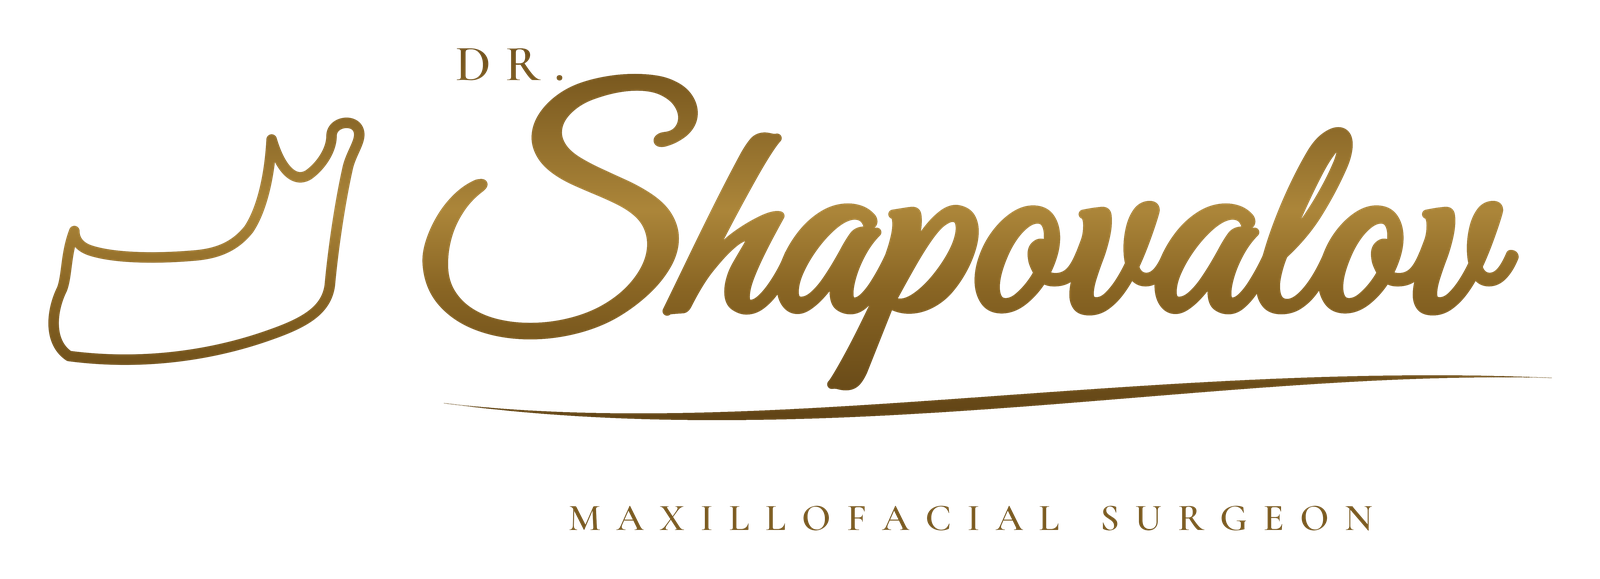
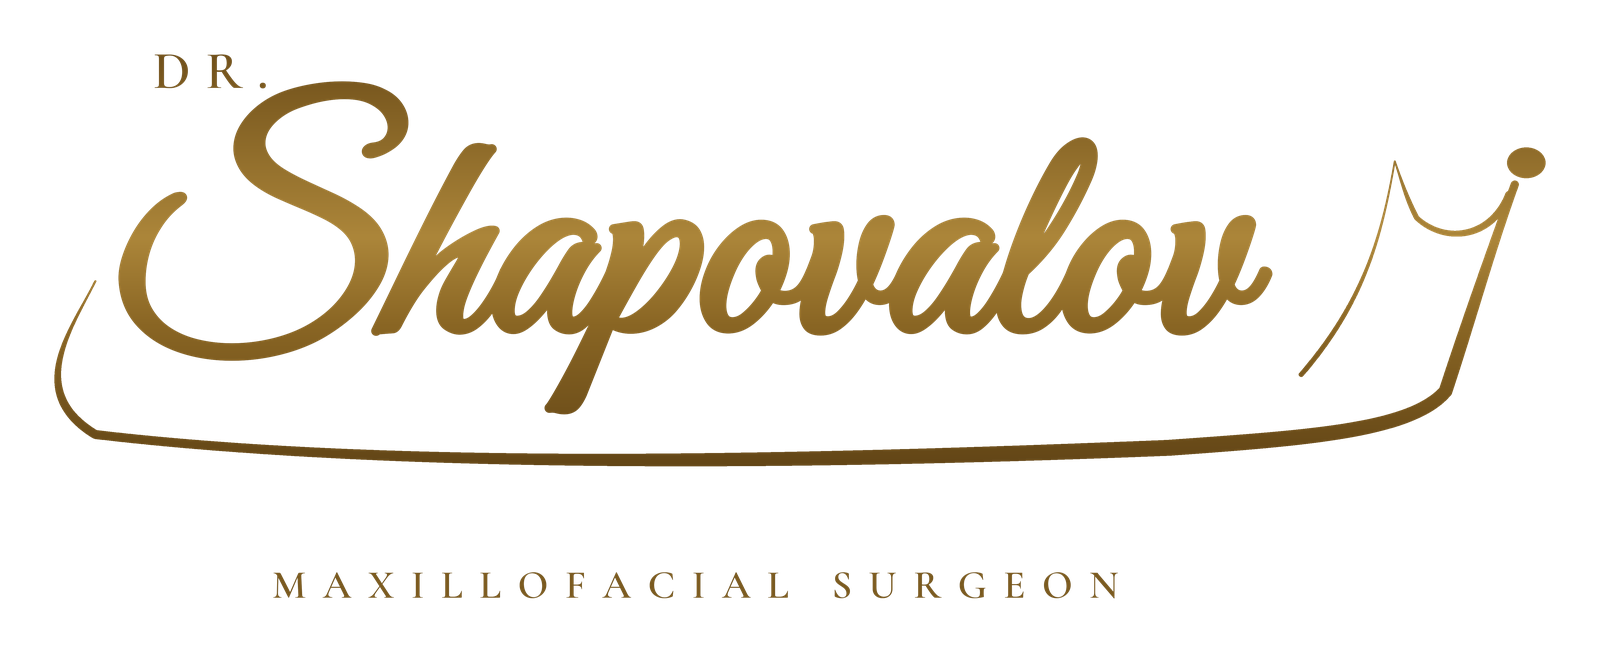
Watermark: mandible drawn by the underline; footer placement only
The separate jaw icon read as crude. The underline under "Shapovalov" now
draws a lower jaw in profile (chin, inferior border, obtuse angle, ramus
with condyle and coronoid) with tapered pen strokes. Collages get an
optional footer watermark next to the handle, under the photo grid, so
it can never cover a patient's face.

Claude-Session: https://claude.ai/code/session_01HsYw9MJ57U96x7oikCZZgB

Changed region(s): [[0.0312, 0.0622, 0.9688, 0.7461], [0.1562, 0.8705, 0.875, 0.9326]]

diff --git a/branding/dr-shapovalov/script/make.py b/branding/dr-shapovalov/script/make.py
@@ -56,7 +56,51 @@ def ribbon(d, p0, p1, p2, p3, max_w):
         d.ellipse([x - r, y - r, x + r, y + r], fill=255)
 
 
-def lockup(name_h, with_tagline=True):
+def pen(d, segments, max_w):
+    """Calligraphic stroke along cubic segments [(p0, p1, p2, p3, w0, w1), ...];
+    width eases from w0 to w1 (fractions of max_w) along each segment."""
+    for p0, p1, p2, p3, w0, w1 in segments:
+        n = 900
+        for i in range(n + 1):
+            t = i / n
+            x = (1-t)**3*p0[0] + 3*(1-t)**2*t*p1[0] + 3*(1-t)*t**2*p2[0] + t**3*p3[0]
+            y = (1-t)**3*p0[1] + 3*(1-t)**2*t*p1[1] + 3*(1-t)*t**2*p2[1] + t**3*p3[1]
+            e = (1 - math.cos(math.pi * t)) / 2
+            r = max_w / 2 * (w0 + (w1 - w0) * e) + 0.5
+            d.ellipse([x - r, y - r, x + r, y + r], fill=255)
+
+
+def mandible(d, ox, oy, W, H):
+    """The underline drawn as a lower jaw in profile: chin on the left, inferior border
+    under the name, an obtuse gonial angle, then the ramus as a plate (posterior border,
+    condylar head, sigmoid notch, coronoid process, anterior border) after the final "v".
+    Coordinates are fractions of the name box."""
+    dx = 0.05                                     # keeps the ramus clear of the final "v"
+    P = lambda u, v: (ox + (u + (dx if u > 0.8 else 0)) * W, oy + v * H)
+    mw = H * 0.046
+    pen(d, [
+        # symphysis: concave below the incisors, pogonion bulging forward, round menton
+        (P(-0.020, 0.60), P(-0.040, 0.74), P(-0.082, 0.93), P(-0.020, 1.06), 0.10, 0.55),
+        # inferior border of the body
+        (P(-0.020, 1.06), P(0.25, 1.17), P(0.62, 1.14), P(0.86, 1.10), 0.55, 1.00),
+        # antegonial notch and a rounded, obtuse gonial angle
+        (P(0.86, 1.10), P(0.98, 1.07), P(1.07, 1.05), P(1.10, 0.93), 1.00, 0.85),
+        # posterior border of the ramus, leaning back
+        (P(1.10, 0.93), P(1.12, 0.72), P(1.14, 0.50), P(1.16, 0.31), 0.85, 0.50),
+    ], mw)
+    cx, cy = P(1.17, 0.245); r = H * 0.046          # condylar head
+    d.ellipse([cx - r * 1.25, cy - r, cx + r * 1.25, cy + r], fill=255)
+    pen(d, [
+        # condylar neck down into the sigmoid notch
+        (P(1.155, 0.34), P(1.14, 0.47), P(1.10, 0.49), P(1.075, 0.41), 0.45, 0.30),
+        # up to the coronoid tip
+        (P(1.075, 0.41), P(1.066, 0.35), P(1.061, 0.29), P(1.056, 0.24), 0.30, 0.08),
+        # anterior border of the ramus sweeping down into the body, fading out
+        (P(1.056, 0.24), P(1.045, 0.46), P(1.03, 0.66), P(0.975, 0.88), 0.08, 0.30),
+    ], mw)
+
+
+def lockup(name_h, with_tagline=True, jaw=False):
     """Draws the whole mark into an 'L' mask; returns the mask cropped to its content."""
     script = ImageFont.truetype(SCRIPT, name_h)
     probe = Image.new('L', (name_h * 8, name_h * 3), 0)
@@ -68,7 +112,7 @@ def lockup(name_h, with_tagline=True):
     caps = ImageFont.truetype(CAPS, int(H * 0.16))
     tag = ImageFont.truetype(CAPS, int(H * 0.12))
     pad = int(H * 0.5)
-    canvas = Image.new('L', (W + 2 * pad, int(H * 2.1) + 2 * pad), 0)
+    canvas = Image.new('L', (int(W * 1.35) + 2 * pad, int(H * 2.1) + 2 * pad), 0)   # room for the ramus
     d = ImageDraw.Draw(canvas)
     ox, oy = pad, pad + int(H * 0.28)
     canvas.paste(wm, (ox, oy), wm)
@@ -76,10 +120,14 @@ def lockup(name_h, with_tagline=True):
     # "DR." tucked above the S's upper swash, small and widely tracked
     tracked(d, (ox + int(W * 0.03), oy + int(H * 0.02)), PREFIX, caps, 255, H * 0.045)
 
-    # ribbon under the name, like the can's wave but quiet
-    y_rib = oy + H * 1.02
-    ribbon(d, (ox + W * 0.02, y_rib + H * 0.02), (ox + W * 0.34, y_rib + H * 0.16),
-           (ox + W * 0.70, y_rib - H * 0.10), (ox + W * 1.03, y_rib - H * 0.06), H * 0.038)
+    if jaw:
+        mandible(d, ox, oy, W, H)
+        y_rib = oy + H * 1.13
+    else:
+        # ribbon under the name, like the can's wave but quiet
+        y_rib = oy + H * 1.02
+        ribbon(d, (ox + W * 0.02, y_rib + H * 0.02), (ox + W * 0.34, y_rib + H * 0.16),
+               (ox + W * 0.70, y_rib - H * 0.10), (ox + W * 1.03, y_rib - H * 0.06), H * 0.038)
 
     if with_tagline:
         tw = tracked_len(d, TAGLINE, tag, H * 0.05)

diff --git a/branding/dr-shapovalov/script/make_watermark.py b/branding/dr-shapovalov/script/make_watermark.py
@@ -1,45 +1,28 @@
-"""Transparent watermarks for case collages: Dr. Shapovalov lockup, with or without a
-schematic mandible, in metallic gold (dark backgrounds and dark photo areas) or deep
-bronze-gold (light backgrounds). Padding on every side so nothing touches the edge."""
-import io
-import cairosvg
+"""Transparent watermarks for case collages, with padding on every side.
+
+  watermark-<gold|bronze>[-jaw].png   full lockup with tagline
+  footer-<gold|bronze>[-jaw].png      no tagline, for the collage footer strip
+
+"-jaw": the underline is drawn as a lower jaw in profile (see make.mandible).
+Gold for dark backgrounds, bronze-gold for light ones. Watermarks go in the footer
+strip, never over the photos, so they can never cover a patient's face."""
 from PIL import Image
 import make
 
 BRONZE = [(0.0, (112, 80, 26)), (0.42, (172, 134, 58)), (0.62, (138, 102, 36)), (1.0, (92, 64, 20))]
 BRONZE_TAIL = (120, 88, 30)
-SS = 3
 
 
-def jaw_mask(height):
-    w = int(height * 240 / 170)
-    png = cairosvg.svg2png(url='jaw.svg', output_width=w, output_height=height)
-    a = Image.open(io.BytesIO(png)).convert('RGBA').getchannel('A')
-    return a.crop(a.getbbox())
-
-
-def build(with_jaw, palette, width):
-    lock = make.lockup(400 * SS, True)
-    if with_jaw:
-        jaw = jaw_mask(int(lock.height * 0.62))
-        gap = int(lock.height * 0.12)
-        W, H = jaw.width + gap + lock.width, lock.height
-        mask = Image.new('L', (W, H), 0)
-        mask.paste(jaw, (0, int(H * 0.40 - jaw.height / 2)), jaw)   # centred on the script line
-        mask.paste(lock, (jaw.width + gap, 0), lock)
-    else:
-        mask = lock
+def build(jaw, palette, tagline, width):
+    mask = make.lockup(400 * make.SS, tagline, jaw=jaw)
     pad = int(mask.height * 0.10)
     full = Image.new('L', (mask.width + 2 * pad, mask.height + 2 * pad), 0)
     full.paste(mask, (pad, pad))
-
+    saved = make.STOPS, make.TAIL
     if palette == 'bronze':
-        stops, tail = make.STOPS, make.TAIL
         make.STOPS, make.TAIL = BRONZE, BRONZE_TAIL
-    fill = make.gold(full.size, pad, pad + int(mask.height * 0.8))
-    if palette == 'bronze':
-        make.STOPS, make.TAIL = stops, tail
-
+    fill = make.gold(full.size, pad, pad + int(mask.height * (0.8 if tagline else 1.0)))
+    make.STOPS, make.TAIL = saved
     out = Image.new('RGBA', full.size, (0, 0, 0, 0))
     out.paste(fill, (0, 0), full)
     return out.resize((width, int(out.height * width / out.width)), Image.LANCZOS)
@@ -48,6 +31,7 @@ def build(with_jaw, palette, width):
 if __name__ == '__main__':
     for jaw in (False, True):
         for pal in ('gold', 'bronze'):
-            name = f"watermark-{pal}{'-jaw' if jaw else ''}.png"
-            build(jaw, pal, 1600).save(name)
-            print(name)
+            sfx = f"{pal}{'-jaw' if jaw else ''}"
+            build(jaw, pal, True, 1600).save(f'watermark-{sfx}.png')
+            build(jaw, pal, False, 1200).save(f'footer-{sfx}.png')
+            print(sfx)

diff --git a/branding/dr-shapovalov/collage/render.py b/branding/dr-shapovalov/collage/render.py
@@ -186,16 +186,31 @@ def place(canvas, img, box, x, y, w, h, label, dark, photo=None):
         badge(canvas, x, y, w, h, b['value'], b.get('caption', ''), dark)
 
 
-def header_footer(canvas, title, subtitle):
+WM_H = 66                     # footer watermark height; stays inside the 4:5 safe band
+
+
+def header_footer(canvas, title, subtitle, watermark=None):
     d = ImageDraw.Draw(canvas)
     sub = f' · {subtitle}'
     tw = d.textlength(title, font=F_TITLE) + d.textlength(sub, font=F_SUB)
     x, base = (W - tw) / 2, TOP + 44
     d.text((x, base), title, font=F_TITLE, fill=INK, anchor='ls')
     d.text((x + d.textlength(title, font=F_TITLE), base), sub, font=F_SUB, fill=MUTED, anchor='ls')
+    hw = d.textlength(HANDLE, font=F_HANDLE)
+    if watermark:
+        # Watermark lives in the footer strip under the grid, never on a photo,
+        # so it can never cover a patient's face.
+        wm = Image.open(watermark).convert('RGBA')
+        wm = wm.resize((int(wm.width * WM_H / wm.height), WM_H), Image.LANCZOS)
+        grid_bottom = H - GAP_F - FOOT - BOTTOM
+        cy = (grid_bottom + (H - BOTTOM + 11)) // 2
+        gap = 18
+        fx = int((W - (wm.width + gap + hw)) / 2)
+        canvas.paste(wm, (fx, cy - WM_H // 2), wm)
+        d.text((fx + wm.width + gap, cy + 2), HANDLE, font=F_HANDLE, fill=INK, anchor='lm')
+        return
     png = cairosvg.svg2png(url=MARK_SVG, output_width=34 * SS, output_height=34 * SS)
     mark = Image.open(io.BytesIO(png)).convert('RGBA').resize((34, 34), Image.LANCZOS)
-    hw = d.textlength(HANDLE, font=F_HANDLE)
     fx, fy = int((W - (34 + 10 + hw)) / 2), H - BOTTOM - FOOT + 3
     canvas.paste(mark, (fx, fy), mark)
     d.text((fx + 44, fy + 17), HANDLE, font=F_HANDLE, fill=INK, anchor='lm')
@@ -310,7 +325,10 @@ if __name__ == '__main__':
     for slide in case['slides']:
         print(f"slide {slide['name']}")
         canvas = LAYOUTS[slide['layout']](slide, labels, base)
-        header_footer(canvas, slide['title'], case.get('subtitle', 'до и после'))
+        wm = case.get('footer_watermark')
+        if wm and not os.path.isabs(wm):
+            wm = os.path.join(HERE, wm)
+        header_footer(canvas, slide['title'], case.get('subtitle', 'до и после'), wm)
         out = os.path.join(base, f"{slide['name']}.jpg")
         canvas.save(out, quality=95, subsampling=0)
         print(f'  -> {out}')
